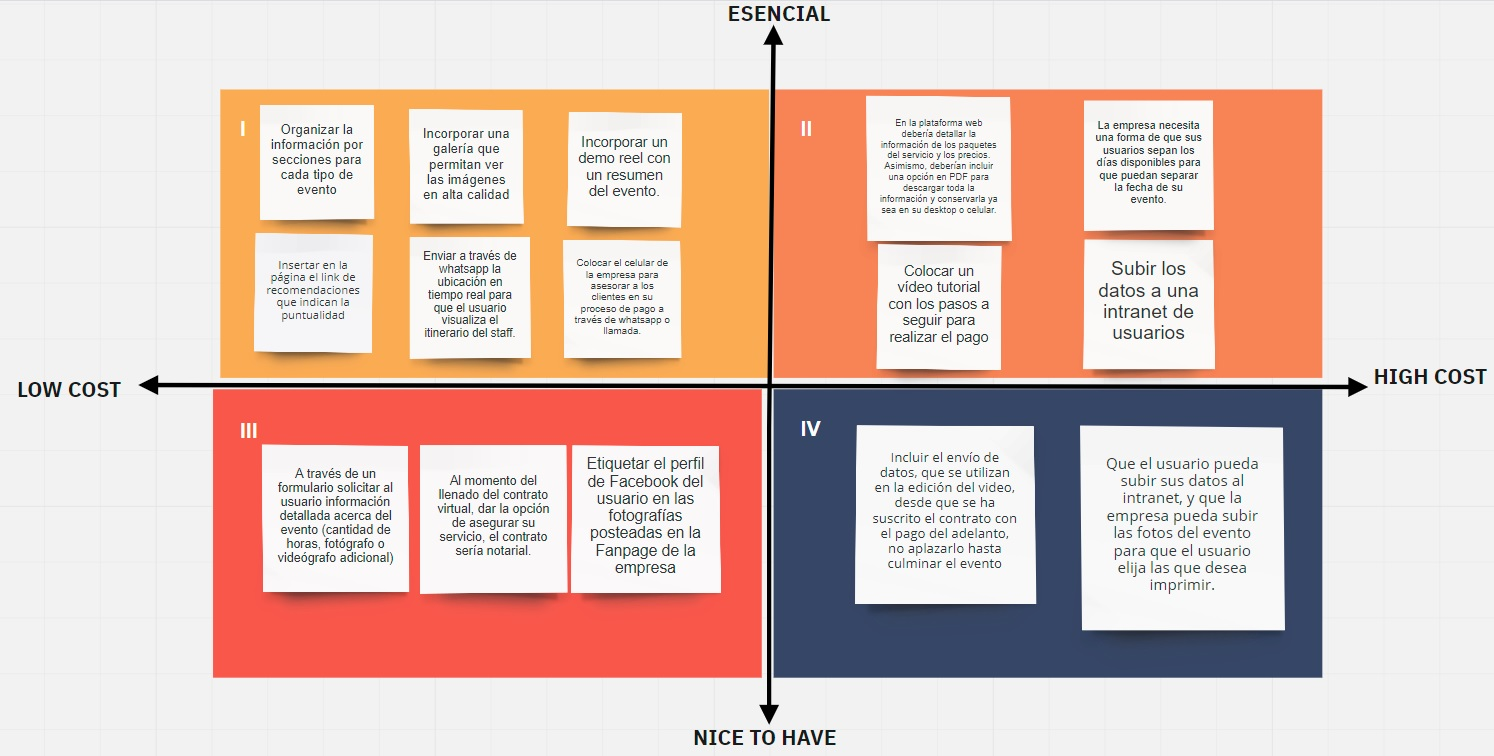
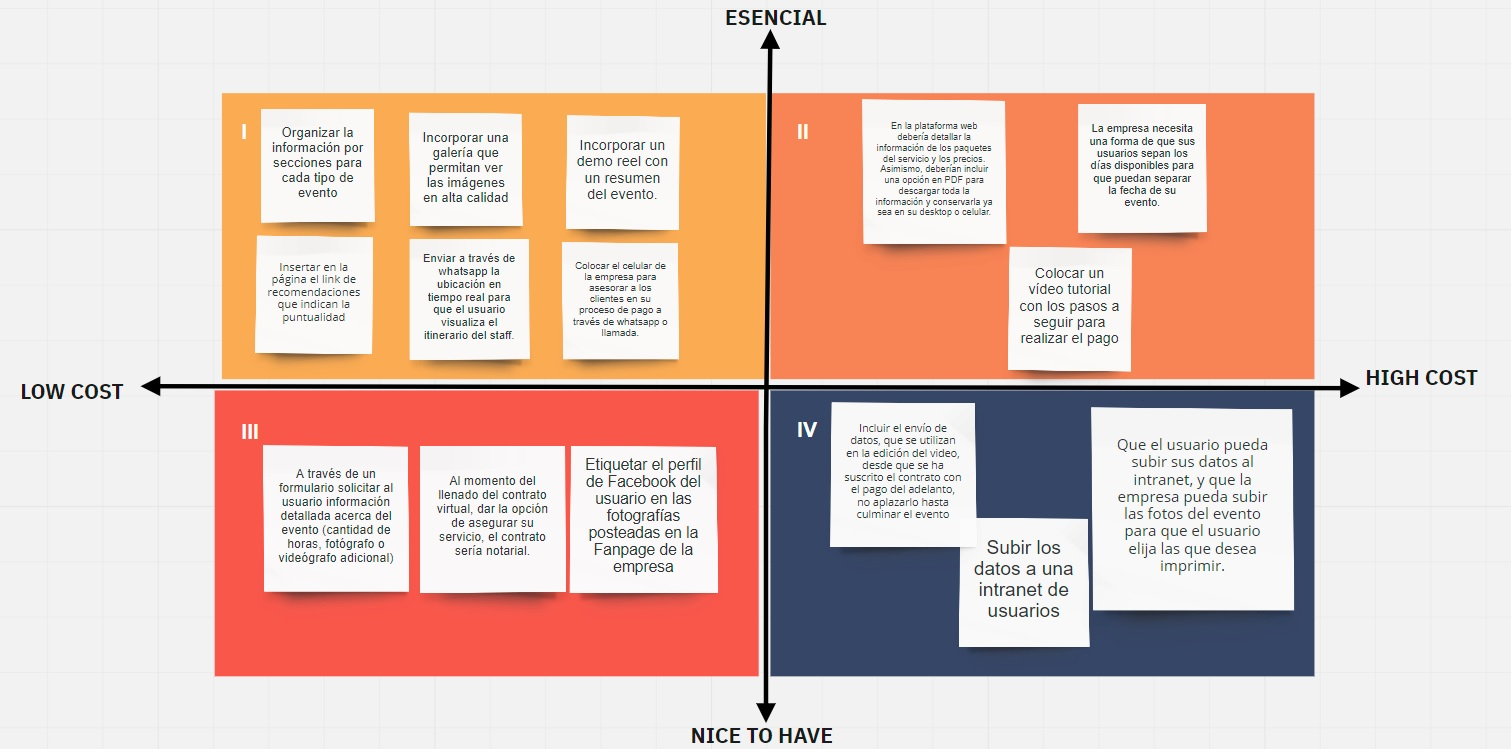
modifica punto 5 e imagen implementación

Changed region(s): [[0.0, 0.0, 1.0, 1.0]]

diff --git a/README.md b/README.md
@@ -1,4 +1,4 @@
-# Fotografía y Filmación MC - Marketplace - 
+# Fotografía y Filmación MC - Marketplace 
 
 
 ## Índice
@@ -36,9 +36,10 @@ Las redes sociales (Facebook y Whatsapp) son su medio principal para mostrar su 
 * Sexo: De cada 12 usuarios, 10 son mujeres y 2 son varones.
 * Edades: 25 - 55 años
 
-* Facebook [Fotografía y Filmación MC](https://www.facebook.com/mcfotografiayfilmacion/)
-* Youtube [Fotografía y Filmación MC](https://www.youtube.com/channel/UCPFEGH6Fpxcq7kCD7e31CTw)
-* Instagram [Fotografía y Filmación MC](https://www.instagram.com/fotografiayfilmacionmc/)
+### *Fotografía y Filmación MC - Redes Sociales
+* [Facebook] (https://www.facebook.com/mcfotografiayfilmacion/)
+* [Youtube](https://www.youtube.com/channel/UCPFEGH6Fpxcq7kCD7e31CTw)
+* [Instagram](https://www.instagram.com/fotografiayfilmacionmc/)
 
 ## 3. Objetivos del proyecto
 
@@ -52,21 +53,14 @@ Nuestro principal objetivo es hacer un e-commerce, que responda a las necesidade
 
 ### Implementación
 Para llevar a cabo nuestra investigación, usamos las siguientes herramientas.
-|Actividad|Descripción|Puntos|
-|:----|:---|:---:|
-Entrevistas con cliente|Realización de entrevistas con el cliente (dueño del reto) y establecimiento de sus metas y objetivos.|25|
-|Benchmark| Revisión de features de la competencia y referencias análogas. | 20 |
-|Entrevistas con usuarios| Entrevistas en profundidad con al menos 5 usuarios. | 60 |
-|Flujo / árbol de contenidos|Documento que estructura contenidos y su navegación|15|
-|Testeos de prototipos| Sesiones de testing de la solución propuesta con al menos 5 usuarios. | 60 |
-|Sketching y wireframing| Elaboración de prototipos de baja y mediana fidelidad. | 30 |
-|Prototipado de alta fidelidad| Elaboración de prototipo en base a las pantallas diseñadas. | 80 |
+
+imagen
 
 ## 4. Descubrimiento e Implementación
 
 En esta fase del proceso hemos entrevistado a nuestra cliente Marilyn Mendoza, fundadora de Fotografía y Filmación MC, con la finalidad de conocer un poco más sobre su emprendimiento, a quiénes se dirige, sus objetivos e identificar algunos problemas que será de gran utilidad para nuestra investigación. Asimismo, realizamos entrevistas a usuarios de Fotografía y Filmación MC, de otras empresas del mismo rubro y a posibles usuarios. En total 5 usuarios para nuestra investigación.
 
-### * Problemas identificados en la investigación (cliente y usuario)
+### 4.1. Problemas identificados en la investigación (cliente y usuario)
 
 ### Cliente
 * Los cliente no cumplen con el plazo (3 días) de enviar sus datos y fotos de recuerdo al correo para la edición de su video.
@@ -84,32 +78,63 @@ En esta fase del proceso hemos entrevistado a nuestra cliente Marilyn Mendoza, f
 * Los post en el facebook se pierde y no hay orden
 * La fotos que promocionan en sus redes no siempre son reales (originales)
 
-## 5. Criterios de aceptación mínimos del proyecto
+### 4.2. Benchmark
+En el siguiente cuadro se observan a 6 empresas (Fotografía y Filmación MC & 5 Empresas de la competencia entre nacionales e internacionales), que hemos seleccionado para nuestra investigación, de acuerdo a las características y al rubro elegido. La finalidad del benchmark, era conocer cómo empresas del mismo rubro mostraban sus servicios y de qué manera manejaban su ecommerce.
 
-### 1) General
+### Conclusiones
+* Las empresas que cuentan con página web presentan sus precios y paquetes de sus servicios facilitando la información al usuario.
+* Todas las empresas manejan redes sociales, siendo facebook la más utilizada. Sólo la empresa de Fotografía y Filmación MC incluyó una tienda virtual en su red social, en la cual muestra precios de sus productos y servicios.
+* La mayoría de las empresas se comunica vía whatsapp, también incluyeron un formulario en su página web, lo cual es muy importante para tener una base de datos de sus usuarios.
+* Sólo la página web de una empresa de fotografía (Enrique Oliver - España) ha incorporado un intranet, donde sube las fotos del evento que asistió y el usuario tiene la facilidad de descargarlo en un plazo no menor de 15 días, después de ese periodo desaparecerán del intranet para dar paso a fotos de otros usuario; sin embargo, si el usuario desea tenerlo por otro periodo más deberá pagar un adicional.
 
-En este proyecto necesitarás salir a hablar con usuarios reales y entender
-cuáles son sus necesidades, cómo las resuelven actualmente y proponer una
-solución óptima para resolver estas necesidades. Mientras resuelves el proyecto
-vas a tener que ir documentando las actividades que realices a través de fotos,
-videos, textos y scripts. **Utiliza tu en Google Drive para guardar toda esta
-documentación y luego linkea las partes más importantes en el `README.md` de tu
-repositorio en GitHub**.
 
-En este caso el README.md será la portada de tu solución final, en él tendrás
-que mostrar la solución final a través de screenshots y podrás compartir links a
-las secciones que detallaremos más adelante.
+## 5. Síntesis y Definición
+En esta segunda fase del proceso usamos los datos coleccionados en la fase de investigación y descubrimiento.
 
-### 2) Entendimiento del problema
+### 5.1. Affinity Map
 
-Durante esta parte te asegurarás que el producto que diseñarás es el correcto,
-es decir, que sigue objetivos de negocio y que resuelve necesidades reales de
-los usuarios. Para ello tendrás que entender al cliente (el miembro de la
-Asociación Nacional de Pequeños Comerciantes con quien estás trabajando) y a los
-usuarios. Luego de entender el problema, tendrás que plantear cómo es que vas a
-resolver dicho problema. Para ello puedes realizar muchas actividades, sin
-embargo el tiempo y los recursos que tienes son limitados. Tendrás que elegir
-bien qué actividades realizarás.
+Imgen
+### Conclusiones:
+* De nuestros 5 entrevistados, todos toman en consideración las recomendaciones, ya sea face to face, como también las opiniones en facebook.
+* La atención personalizada es una de la razones por la cual el usuario toma la decisión de contratar el servicio, consideran que la respuesta inmediata y la síntesis de la información son primordiales.
+* La mayoría de nuestros usuarios usar celular y facebook para buscar información del servicio a contratar, no revisan mucho páginas webs ya que consideran que les demandaría mucho tiempo en entender cada detalle.
+* De otro modo, otros usuarios consideran que dentro de una página web la información y galería de fotos se podría apreciar mejor.
+
+### 5.2. Definición del público objetivo
+
+#### User Persona
+imagen
+
+#### Customer Journey Map (indicando pain y gain points)
+imagen
+
+### 5.3. Problem statements & HMW
+* Sonia, necesita conocer la información de los paquetes del servicio de foto y video para saber si se adapta a sus necesidades.
+
+¿Cómo podríamos hacer que Sonia encuentre información que necesita de los paquetes de foto y video de forma más fácil ?
+- En la plataforma web debería detallar la información de los paquetes del servicio y los precios. Asimismo, deberían incluir una opción en PDF para descargar toda la información y conservarla ya sea en su desktop o celular.
+
+
+¿Cómo podríamos hacer que la empresa brinde la opción de personalizar el servicio según necesidades del usuario?
+- A través de un formulario solicitar al usuario información detallada acerca del evento (cantidad de horas, fotógrafo o videógrafo adicional)
+
+* Sonia, necesita una forma de ver los trabajos pasados para percibir la calidad del trabajo a recibir.
+
+¿Cómo podríamos hacer que los trabajos pasados se vean fácilmente y en buena calidad?
+- Organizar la información por secciones para cada tipo de evento
+- Incorporar una galería que permitan ver las imágenes en alta calidad
+- Incorporar un demo reel con un resumen del evento.
+
+* Sonia, necesita una forma rápida de enviar sus datos y fotos para agilizar el proceso de edición de su vídeo
+¿Cómo podríamos hacer que los clientes puedan enviar fácilmente sus datos y fotos para la edición del vídeo?
+- Incluir el envío de datos desde que se ha suscrito el contrato con el pago del adelanto, no aplazarlo hasta culminar el evento
+- Que el usuario pueda subir sus datos al intranet, y que la empresa pueda subir las fotos del evento para que el usuario elija las que desea imprimir.
+
+* Sonia necesita una forma segura de pagar en una pasarela de pago vía Internet para confiar de que no tendrá posteriores problemas
+- ¿Cómo podríamos hacer para que el usuario sienta que hizo correctamente un pago online?
+- Colocar un vídeo tutorial con los pasos a seguir para realizar el pago.
+- Colocar el celular de la empresa para asesorar a los clientes en su proceso de pago a través de whatsapp o llamada
+
 
 ### 3) Planteamiento y validación de la solución
 
